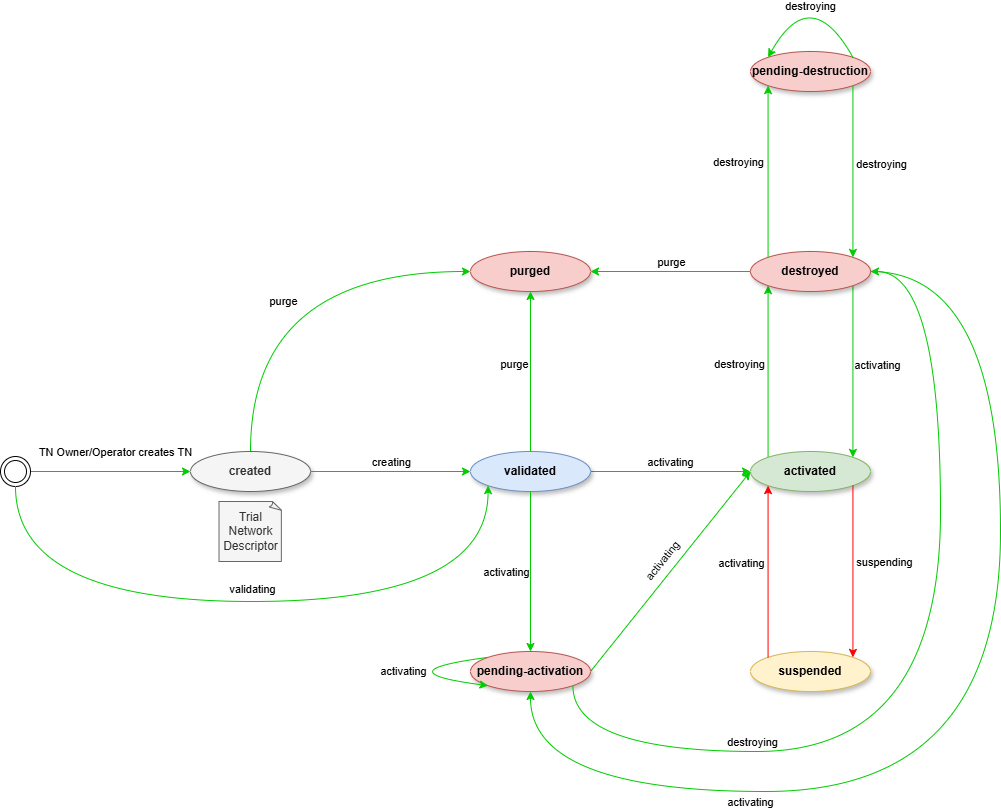
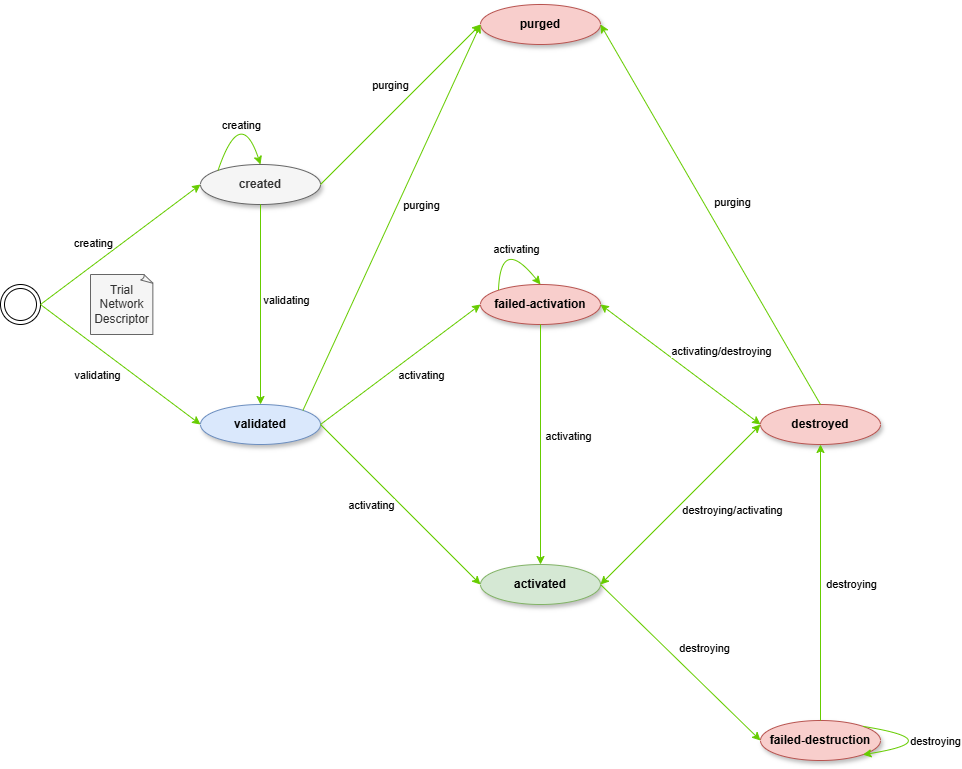
fix: state machine

diff --git a/docs/tnlcm/workflow.md b/docs/tnlcm/workflow.md
@@ -18,32 +18,34 @@ TNLCM is a **state machine** that allows the automation of component deployment.
 - **activated**: the trial network is deployed in OpenNebula and ready to use.
 - **created**: the trial network descriptor is created but not yet validated.
 - **destroyed**: the trial network deployment is removed from OpenNebula and ready for deploy again.
-- **suspended**: the trial network is not in use but it is still deployed in OpenNebula.
-- **validated**: the trial network descriptor is created and validated. It is ready to be deployed in OpenNebula.
-- **pending-activation**: the trial network deployment failed. It is waiting for the user to try again.
-- **pending-destruction**: the trial network deployment removal failed. It is waiting for the user to try again.
+- **failed-activation**: the trial network deployment failed. It is waiting for the user to try again.
+- **failed-destruction**: the trial network deployment removal failed. It is waiting for the user to try again.
 - **purged**: all the information about the trial network is removed from the database.
+- **validated**: the trial network descriptor is created and validated. It is ready to be deployed in OpenNebula.
+<!-- - **failed-suspension**: the trial network suspension failed. It is waiting for the user to try again. -->
+<!-- - **suspended**: the trial network is not in use but it is still deployed in OpenNebula. -->
 
 ### Transitions
 
-- **initial-state** &rarr; **created**: create a trial network descriptor that not yet validated. It allows save the descriptor for further editing at a later time.
+- **initial-state** &rarr; **created**: create a trial network descriptor that not validated yet. It allows save the descriptor for further editing at a later time.
 - **initial-state** &rarr; **validated**: create and validate a trial network descriptor in the same step. It check if the descriptor can be deployed.
+- **created** &rarr; **created**: edit the trial network descriptor.
 - **created** &rarr; **validated**: apply validation to the trial network descriptor.
 - **created** &rarr; **purged**: remove all the information about the trial network in database.
 - **validated** &rarr; **purged**: remove all the information about the trial network in database.
 - **validated** &rarr; **activated**: activate the trial network. It deploys the trial network in OpenNebula.
-- **validated** &rarr; **pending-activation**: trial network deployment failed. It is waiting for the user to try again.
-- **pending-activation** &rarr; **pending-activation**: retry the trial network deployment and it fails again.
-- **pending-activation** &rarr; **activated**: retry the trial network deployment and it is successful.
-- **pending-activation** &rarr; **destroyed**: remove the trial network deployment from OpenNebula and ready for deploy again.
-- **activated** &rarr; **suspended**: TODO.
+- **validated** &rarr; **failed-activation**: trial network deployment failed. It is waiting for the user to try again.
+- **failed-activation** &rarr; **failed-activation**: retry the trial network deployment and it fails again.
+- **failed-activation** &rarr; **activated**: retry the trial network deployment and it is successful.
+- **failed-activation** &rarr; **destroyed**: remove the trial network deployment from OpenNebula and ready for deploy again.
 - **activated** &rarr; **destroyed**: remove the trial network deployment from OpenNebula and ready for deploy again.
-- **suspended** &rarr; **activated**: TODO.
+- **activated** &rarr; **failed-destroyed**: trial network deployment removal failed. It is waiting for the user to try again.
 - **destroyed** &rarr; **purged**: remove all the information about the trial network in database.
-- **destroyed** &rarr; **pending-destruction**: trial network deployment removal failed. It is waiting for the user to try again.
-- **destroyed** &rarr; **pending-activation**: retry the trial network deployment and it fails.
+- **destroyed** &rarr; **failed-activation**: retry the trial network deployment and it fails.
 - **destroyed** &rarr; **activated**: retry the trial network deployment and it is successful.
-- **pending-destruction** &rarr; **destroyed**: retry the trial network deployment removal and it is successful.
-- **pending-destruction** &rarr; **pending-destruction**: retry the trial network deployment removal and it fails again.
+- **failed-destruction** &rarr; **destroyed**: retry the trial network deployment removal and it is successful.
+- **failed-destruction** &rarr; **failed-destruction**: retry the trial network deployment removal and it fails again.
+<!-- - **activated** &rarr; **suspended**: TODO.
+- **suspended** &rarr; **activated**: TODO. -->
 
 ![stateMachine](./images/stateMachine.png)
